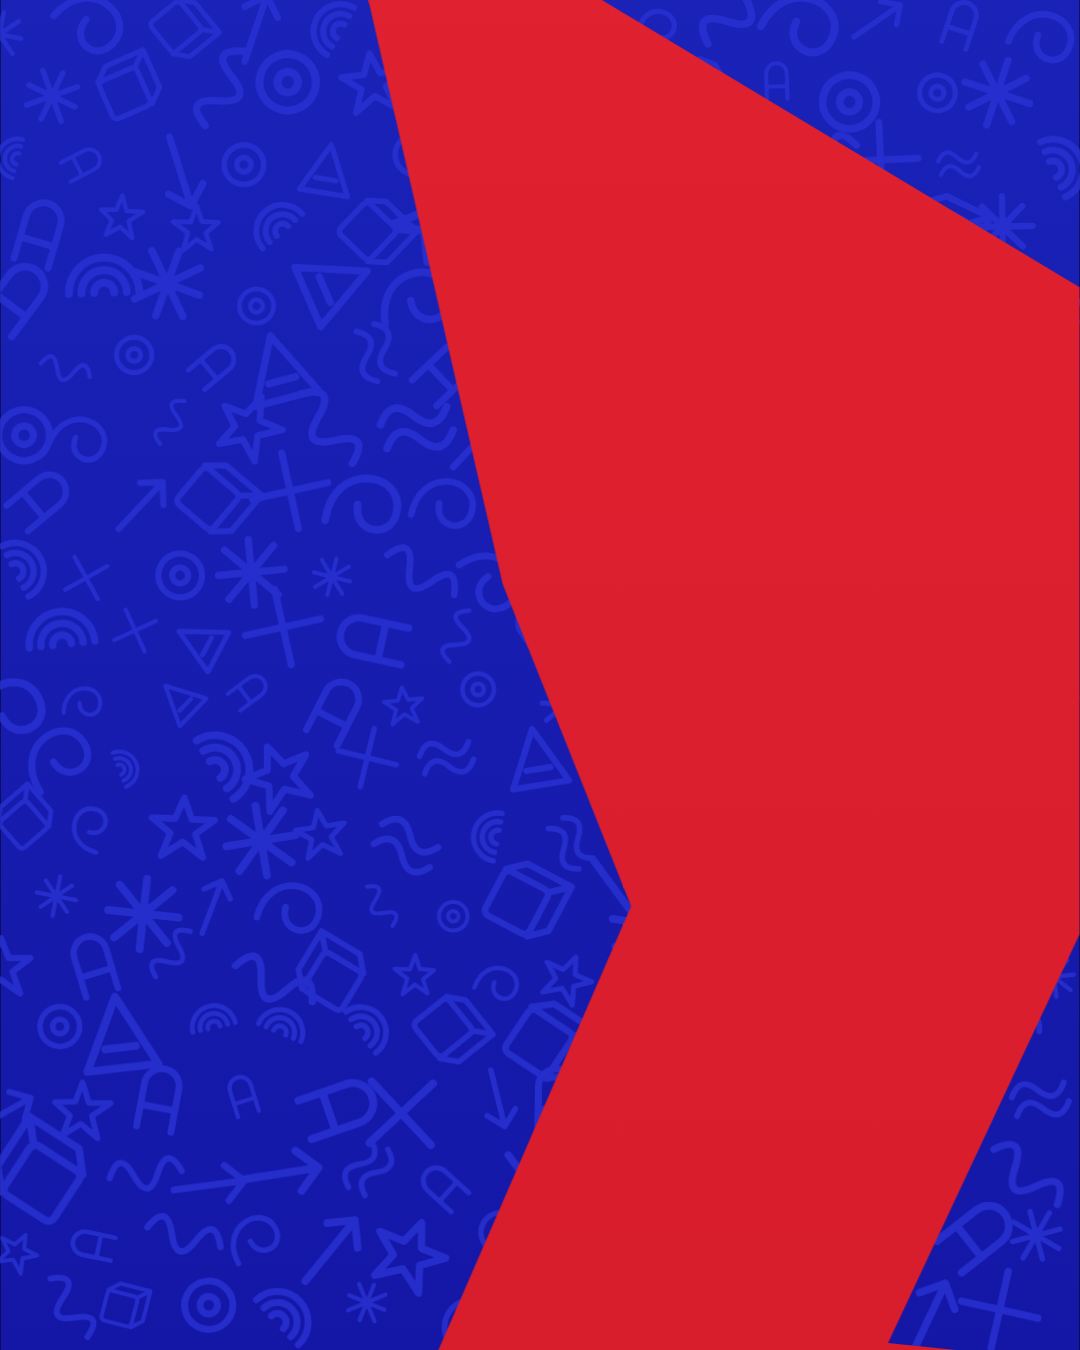
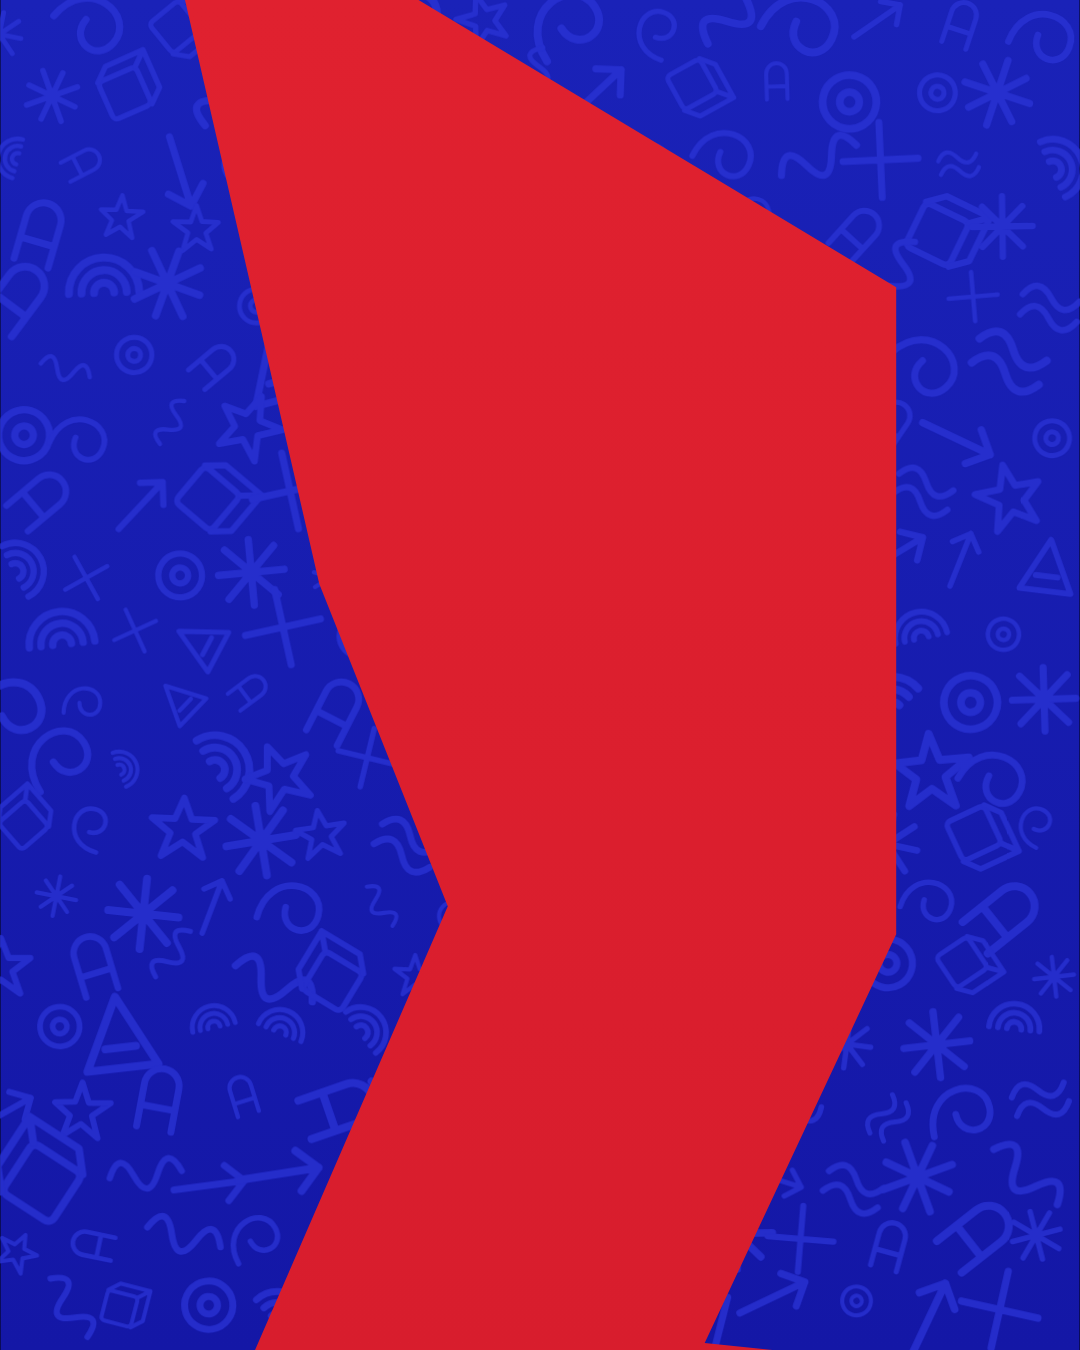
Center the red shape in the background
Claude-Session: https://claude.ai/code/session_01XPcLhK9NiMGQk35r6SgBdh

diff --git a/sisi-wenyewe/background.html b/sisi-wenyewe/background.html
@@ -6,7 +6,7 @@
 </defs>
 <rect width="924" height="1156" fill="url(#bg)"/>
 <g id="doodles" fill="none" stroke="#2b34d6" stroke-width="3.2" stroke-linecap="round" stroke-linejoin="round" opacity=".75"></g>
-<polygon points="315,0 515,0 924,246 924,800 760,1150 818,1156 375,1156 540,776 430,500" fill="url(#rd)"/>
+<polygon transform="translate(-157,0)" points="315,0 515,0 924,246 924,800 760,1150 818,1156 375,1156 540,776 430,500" fill="url(#rd)"/>
 </svg>
 <script>
 let seed=7;const r=()=>(seed=(seed*16807)%2147483647)/2147483647;
